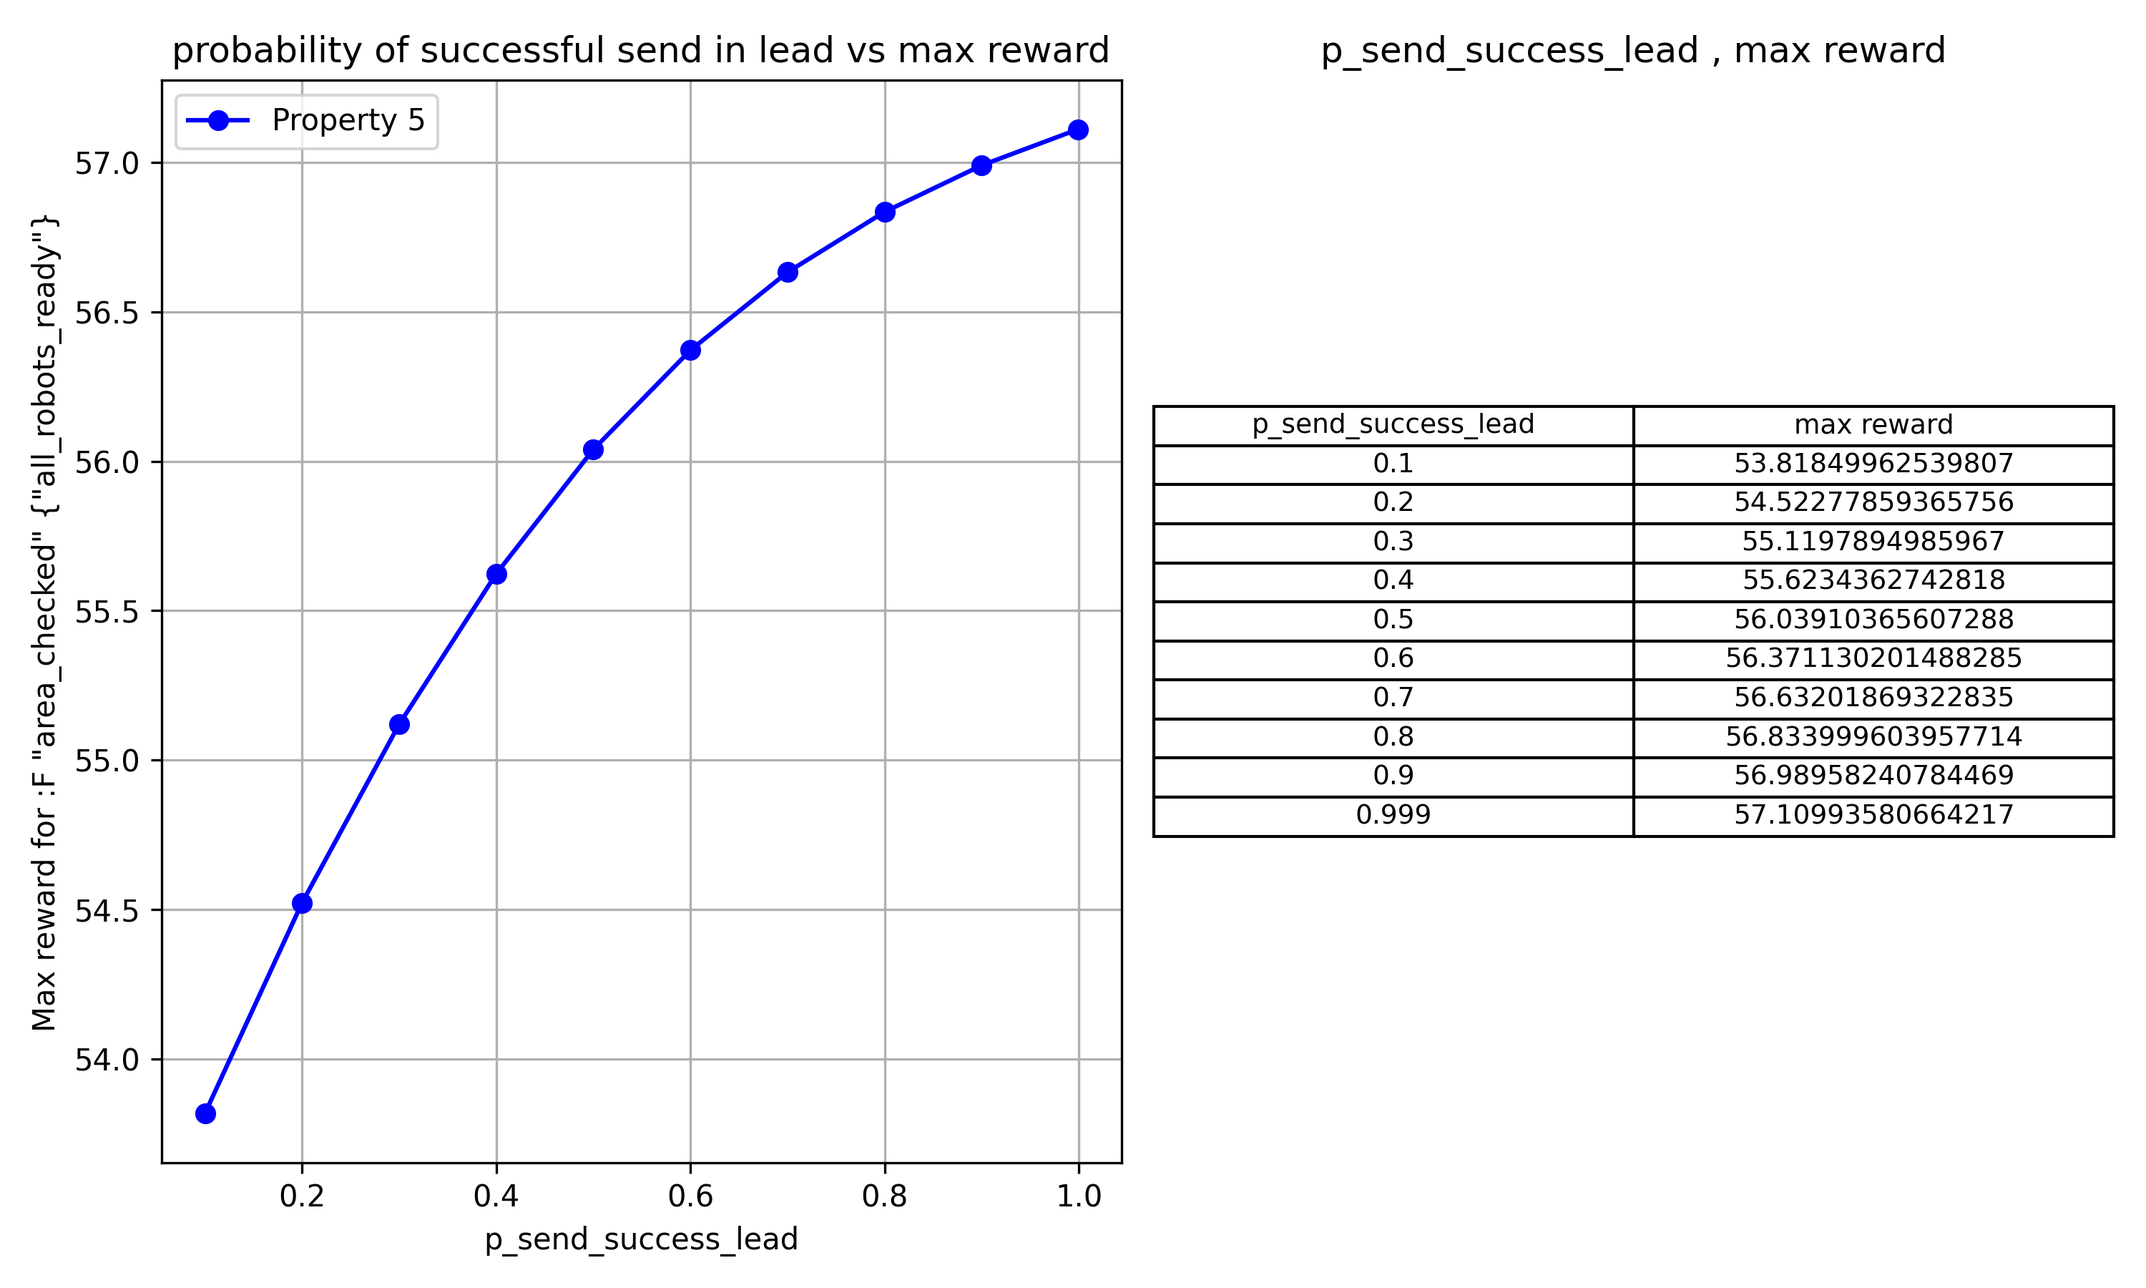
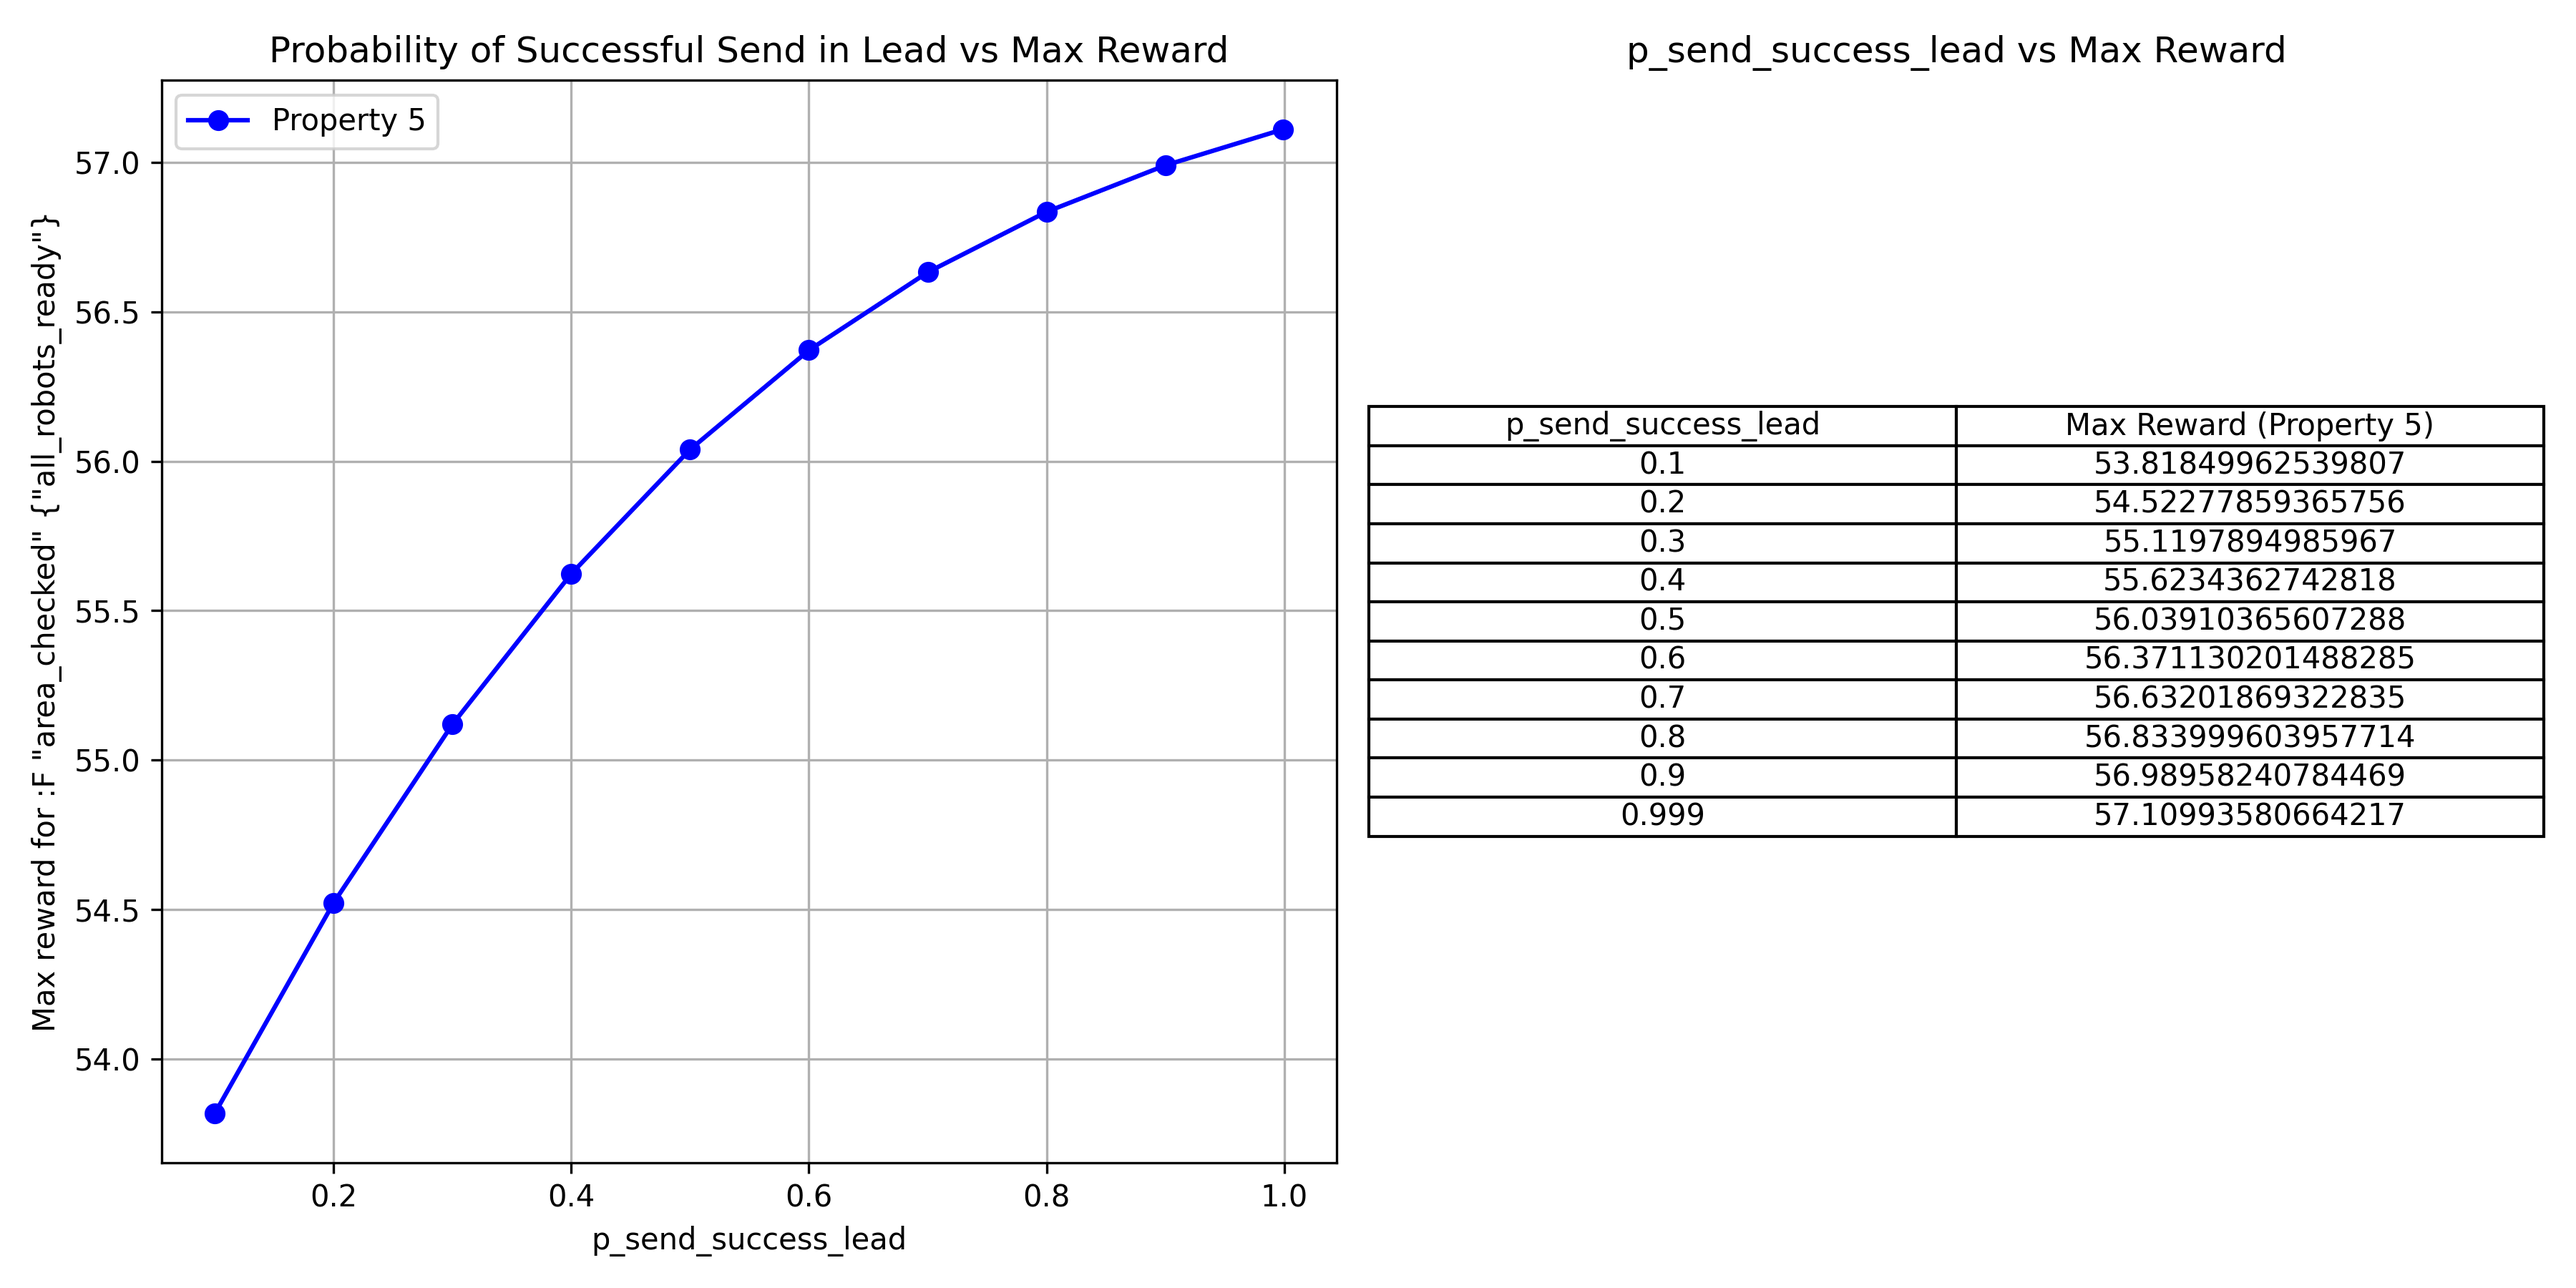
feat:add plot to comorasion for result4 in code 4

diff --git a/codes/code4.py b/codes/code4.py
@@ -1,94 +1,118 @@
 import subprocess
 import matplotlib.pyplot as plt
 
+# File paths
+MODEL_FILE = r"C:\Aterm9\Karshensi_Project\all\first_model.prism"
+PROPERTIES_FILE = r"C:\Aterm9\Karshensi_Project\all\properties.props"
+COST_FILE_PATH = r"C:\Aterm9\Karshensi_Project\all\consts\consts4.txt"
 
-model_file = r"C:\Aterm9\Karshensi_Project\all\first_model.prism"
-properties_file = r"C:\Aterm9\Karshensi_Project\all\properties.props"
-cost_file_path = r"C:\Aterm9\Karshensi_Project\all\consts\consts4.txt"
-def parse_cost_line(line):
-    param_dict = {}
+
+# Main logic to read costs and process results
+def main():
+    result_data = {'group': [], 'property_5': [], 'property_7': []}
+    counter_group = 1
+
+    with open(COST_FILE_PATH, 'r') as cost_file:
+        for line in cost_file:
+            if line.strip():
+                cost_group = extract_constants(line)
+                process_prism_results(cost_group, counter_group, result_data)
+            counter_group += 1
+
+    # Save and plot results
+    property_5_file = "plots/plot_results4.png"
+    comparison_file = "plots/plot_comparison_result4.png"
+
+    plot_property_5(result_data, property_5_file)
+    plot_comparison(result_data, comparison_file)
+
+    print(f"Property 5 plot saved to {property_5_file}")
+    print(f"Comparison plot saved to {comparison_file}")
+
+# Function to extract constants from a line
+def extract_constants(line):
+    constants = {}
     for param in line.strip().split(","):
         key_value = param.split("=")
         if len(key_value) == 2:
             key, value = key_value
-            param_dict[key.strip()] = float(value.strip()) if "." in value else int(value.strip())  
-    return param_dict
+            constants[key.strip()] = float(value.strip()) if "." in value else int(value.strip())
+    return constants
 
-
-def run_prism_with_cost_group(cost_group, counterGroup, result_data):
-
+# Function to run PRISM and process results
+def process_prism_results(cost_group, counter_group, result_data):
     param_str = ",".join([f"{key}={value}" for key, value in cost_group.items()])
-
     prism_command = [
-        r"cd", r"C:\Program Files\prism-4.8.1\bin", "&&", 
-        r"prism.bat", model_file, properties_file, "-const", param_str
+        r"cd", r"C:\Program Files\prism-4.8.1\bin", "&&",
+        r"prism.bat", MODEL_FILE, PROPERTIES_FILE, "-const", param_str
     ]
-
     try:
         result = subprocess.run(' '.join(prism_command), shell=True, capture_output=True, text=True, check=True)
-        
         output = result.stdout
-        propertyNumber = 1
-        p_explore_success = cost_group["p_send_success_lead"]
-        for line in output.splitlines():
-            if "Result" in line:
-                print(f"Result for cost group {counterGroup} , property { propertyNumber} : {line}")
-                if propertyNumber == 5:
-                    property_5 = float(line.split(":")[1].strip())
-                    result_data['group'].append(p_explore_success)
-                    result_data['property_5'].append(property_5)
-                elif propertyNumber == 7:
-                    property_7 = float(line.split(":")[1].strip())
-                    result_data['property_7'].append(property_7)
-         
-             
-                propertyNumber += 1
-    
+        parse_prism_output(output, cost_group["p_send_success_lead"], counter_group, result_data)
     except subprocess.CalledProcessError as e:
-        print(f"Error running PRISM with cost group {counterGroup}:\n", e.stderr)
+        print(f"Error running PRISM for group {counter_group}:\n", e.stderr)
 
-result_data = {
-    'group': [],
-    'property_5': [],
-    'property_7': [],
-    'property_8': []
-}
+# Function to parse PRISM output
+def parse_prism_output(output, p_success, counter_group, result_data):
+    property_number = 1
+    for line in output.splitlines():
+        if "Result" in line:
+            print(f"Result for cost group {counter_group}, property {property_number}: {line}")
+            if property_number == 5:
+                property_5 = float(line.split(":")[1].strip())
+                result_data['group'].append(p_success)
+                result_data['property_5'].append(property_5)
+            elif property_number == 7:
+                property_7 = float(line.split(":")[1].strip())
+                result_data['property_7'].append(property_7)
+            property_number += 1
+
+# Function to plot Property 5 and its table
+def plot_property_5(result_data, output_file):
+    plt.figure(figsize=(12, 6))
+
+    # Plot Property 5
+    plt.subplot(121)
+    plt.plot(result_data['group'], result_data['property_5'], marker='o', color='b', label='Property 5')
+    plt.xlabel('p_send_success_lead')
+    plt.ylabel('Max reward for :F "area_checked" {"all_robots_ready"}')
+    plt.title('Probability of Successful Send in Lead vs Max Reward')
+    plt.grid(True)
+    plt.legend()
+
+    # Table for Property 5
+    plt.subplot(122)
+    plt.axis('off')
+    table_columns = ["p_send_success_lead", "Max Reward (Property 5)"]
+    table_data = list(zip(result_data['group'], result_data['property_5']))
+    table = plt.table(cellText=table_data, colLabels=table_columns, loc='center', cellLoc='center')
+    table.auto_set_font_size(False)
+    table.set_fontsize(10)  # Adjust the font size here
+    plt.title("p_send_success_lead vs Max Reward")
+
+    plt.tight_layout()
+    plt.savefig(output_file, format='png', dpi=300)
+    plt.close()
+
+# Function to plot comparison between Property 5 and Property 7
+def plot_comparison(result_data, output_file):
+    plt.figure(figsize=(10, 6))
+
+    # Comparison Plot
+    plt.plot(result_data['group'], result_data['property_5'], marker='o', color='b', label='Property 5')
+    plt.plot(result_data['group'], result_data['property_7'], marker='s', color='r', label='Property 7')
+    plt.xlabel('p_send_success_lead')
+    plt.ylabel('Property Values')
+    plt.title('Comparison of Property 5 and Property 7')
+    plt.grid(True)
+    plt.legend()
+
+    plt.tight_layout()
+    plt.savefig(output_file, format='png', dpi=300)
+    plt.close()
 
 
-counterGroup = 1
-with open(cost_file_path, 'r') as cost_file:
-    for line in cost_file:
-        if line.strip():  
-            cost_group = parse_cost_line(line)
-            run_prism_with_cost_group(cost_group, counterGroup, result_data)
-        counterGroup += 1 
 
-
-
-
-plt.figure(figsize=(10, 6))
-
-# Plot Property 5
-plt.subplot(121)
-plt.plot(result_data['group'], result_data['property_5'], marker='o', color='b', label='Property 5')
-plt.xlabel('p_send_success_lead')
-plt.ylabel('Max reward for :F "area_checked" {"all_robots_ready"}')
-plt.title('probability of successful send in lead vs max reward')
-plt.grid(True)
-plt.legend()
-
-# Table for Property 5
-plt.subplot(122)
-plt.axis('off')
-columns = ["p_send_success_lead", "max reward"]
-data = list(zip(result_data['group'], result_data['property_5']))
-plt.table(cellText=data, colLabels=columns, loc='center', cellLoc='center')
-plt.title("p_send_success_lead , max reward")
-plt.tight_layout()
-
-output_file = "plots\plot_results4.png" 
-plt.savefig(output_file, format='png', dpi=300) 
-
-plt.close()
-
-
+if __name__ == "__main__":
+    main()
